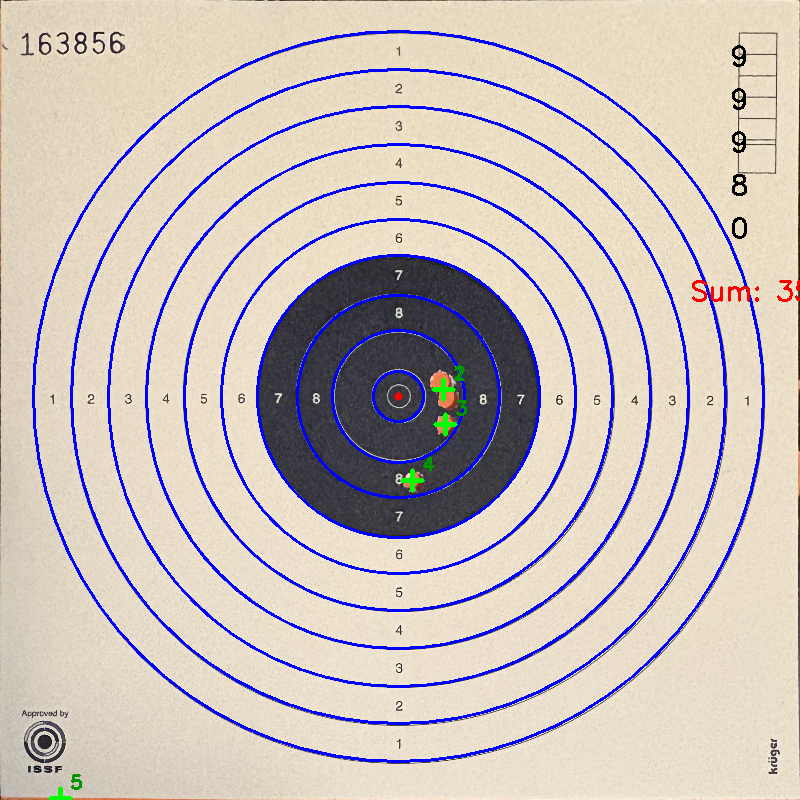
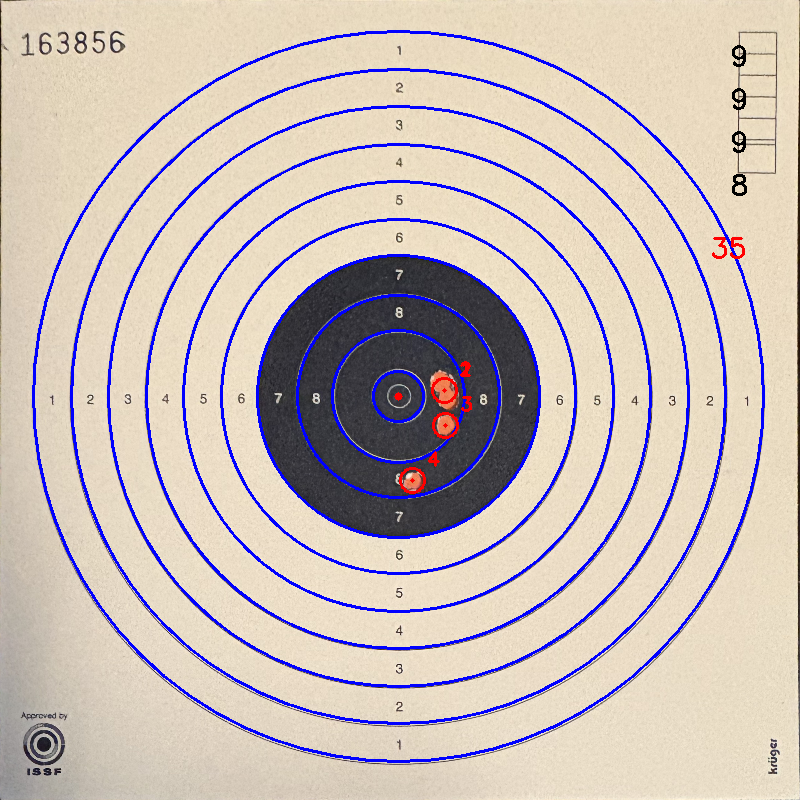
Automated sync.

diff --git a/main.py b/main.py
@@ -115,22 +115,32 @@ def detect_and_draw_rings(warped_img):
 
 
 def read_target_number(warped_img):
-    """Schneidet den Bereich oben links aus und liest die Nummer via OCR."""
-    # ROI (Region of Interest) oben links ausschneiden
-    # Bei 800x800 liegt die Nummer ca. zwischen y:20-120 und x:20-300
-    roi = warped_img[20:120, 20:300]
+    """Schneidet den Bereich aus, verbindet Stempelpunkte und liest die OCR."""
+    # 1. Ausschnitt etwas großzügiger wählen (y: 10-100, x: 10-300)
+    roi = warped_img[10:100, 10:300]
 
-    gray = cv2.cvtColor(roi, cv2.COLOR_BGR2GRAY)
-    # Otsu-Threshold für maximalen Schwarz-Weiß-Kontrast der Schrift
-    _, bw = cv2.threshold(gray, 0, 255, cv2.THRESH_BINARY + cv2.THRESH_OTSU)
+    # 2. Skalieren (3x größer)
+    roi_scaled = cv2.resize(roi, None, fx=3, fy=3, interpolation=cv2.INTER_CUBIC)
+    gray = cv2.cvtColor(roi_scaled, cv2.COLOR_BGR2GRAY)
 
-    # Tesseract konfigurieren: Nur Ziffern (Whitelist) und PSM 7 (Einzelne Textzeile)
+    # 3. Morphologisches Schließen: Verbindet die Punkte der Stempelschrift
+    kernel = cv2.getStructuringElement(cv2.MORPH_RECT, (4, 4))
+    closed = cv2.morphologyEx(gray, cv2.MORPH_CLOSE, kernel)
+
+    # 4. Otsu-Thresholding für harten Kontrast
+    _, bw = cv2.threshold(closed, 0, 255, cv2.THRESH_BINARY + cv2.THRESH_OTSU)
+
+    # --- DEBUG FENSTER ---
+    # Entferne die Rauten (#), um das OCR-Eingabebild zu prüfen!
+    # cv2.imshow("DEBUG OCR - Taste druecken zum Weiterlaufen", bw)
+    # cv2.waitKey(0)
+    # ---------------------
+
+    # 5. Tesseract: Einzelne Zeile (PSM 7) und nur Ziffern
     config = "--psm 7 -c tessedit_char_whitelist=0123456789"
     text = pytesseract.image_to_string(bw, config=config)
 
-    # Whitespaces/Zeilenumbrüche bereinigen
-    clean_text = text.strip()
-    return clean_text
+    return text.strip()
 
 
 def detect_holes_by_color(warped_img):